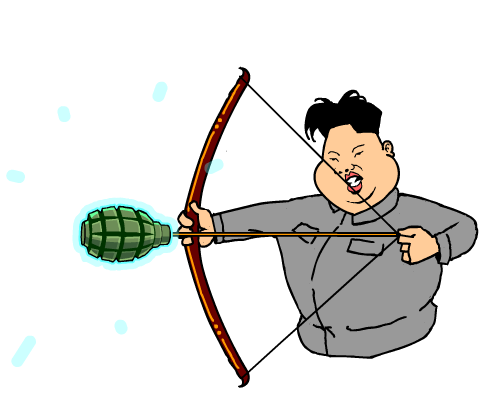
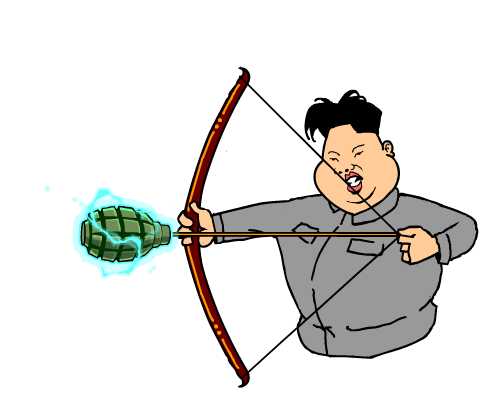
электро свечение гранаты

diff --git a/front/src/Field.jsx b/front/src/Field.jsx
@@ -61,6 +61,21 @@ import grenade_glow2 from "./images/grenade_glow/grenade_glow0002.png"
 import grenade_glow3 from "./images/grenade_glow/grenade_glow0003.png"
 import grenade_glow4 from "./images/grenade_glow/grenade_glow0004.png"
 import grenade_glow5 from "./images/grenade_glow/grenade_glow0005.png"
+import grenade_glow6 from "./images/grenade_glow/grenade_glow0006.png"
+import grenade_glow7 from "./images/grenade_glow/grenade_glow0007.png"
+import grenade_glow8 from "./images/grenade_glow/grenade_glow0008.png"
+import grenade_glow9 from "./images/grenade_glow/grenade_glow0009.png"
+import grenade_glow10 from "./images/grenade_glow/grenade_glow0010.png"
+import grenade_glow11 from "./images/grenade_glow/grenade_glow0011.png"
+import grenade_glow12 from "./images/grenade_glow/grenade_glow0012.png"
+import grenade_glow13 from "./images/grenade_glow/grenade_glow0013.png"
+import grenade_glow14 from "./images/grenade_glow/grenade_glow0014.png"
+import grenade_glow15 from "./images/grenade_glow/grenade_glow0015.png"
+import grenade_glow16 from "./images/grenade_glow/grenade_glow0016.png"
+import grenade_glow17 from "./images/grenade_glow/grenade_glow0017.png"
+import grenade_glow18 from "./images/grenade_glow/grenade_glow0018.png"
+import grenade_glow19 from "./images/grenade_glow/grenade_glow0019.png"
+import grenade_glow20 from "./images/grenade_glow/grenade_glow0020.png"
 import arrow_red from "./images/arrows/arrows0001.png";
 import arrow_green from "./images/arrows/arrows0002.png";
 import arrow_white from "./images/arrows/arrows0003.png";
@@ -177,6 +192,7 @@ function Field() {
                         });
                         item_in_the_hands_ref.current = something_in_the_hands;
                         electricity_stopped_ref.current = true;
+                        grenade_glowing_stopped_ref.current = true;
                         setKim_control(6);
                     }
                 } else {
@@ -189,12 +205,12 @@ function Field() {
                             });
                             item_in_the_hands_ref.current = something_in_the_hands;
                             electricity_stopped_ref.current = true;
+                            grenade_glowing_stopped_ref.current = false;
                             runGrenadeGlow().then(r => {
                                 /**
                                  * По завершению работы функции снимаем блокировку поворота головы
                                  * */
                                 kim_turns_blocked_ref.current = false;
-                                setKim_control(11);
                             });
                         }
                     } else {
@@ -207,6 +223,7 @@ function Field() {
                                 });
                                 item_in_the_hands_ref.current = something_in_the_hands;
                                 electricity_stopped_ref.current = false;
+                                grenade_glowing_stopped_ref.current = true;
                                 runElectricity().then(r => {
                                     /**
                                      * По завершению работы функции снимаем блокировку поворота головы
@@ -324,6 +341,10 @@ function Field() {
      * Прямоугольник, очерчивающий яблоко на голове Байдена для collision detect
      * */
     const joe_box_3_ref = useRef();
+    /**
+     * Для досрочной остановки свечения гранаты
+     * */
+    const grenade_glowing_stopped_ref = useRef(false);
 
     const getPosition = () => {
         const forest_x = forest_ref.current.offsetLeft;
@@ -449,28 +470,13 @@ function Field() {
          * */
         kim_turns_blocked_ref.current = true;
         let i_kim = 56;
-        let time;
-        while (i_kim <= 60) {
-            /**
-             * Рисуем свечение
-             * */
-            setKim_control(i_kim);
-            switch (i_kim) {
-                case 56:
-                    time = 10;
-                    break;
-                case 57:
-                    time = 10;
-                    break;
-                case 58:
-                    time = 20;
-                    break;
-                case 59:
-                    time = 10;
-                    break;
-                case 60:
-                    time = 5;
-                    break;
+        let time = 30;
+        while (i_kim <= 75) {
+            if (!grenade_glowing_stopped_ref.current) {
+                /**
+                 * Рисуем свечение
+                 * */
+                setKim_control(i_kim);
             }
             /**
              * Притормаживаем
@@ -1002,6 +1008,21 @@ function Field() {
                     <img src={grenade_glow3} hidden={kim_control !== 58} alt={""}/>
                     <img src={grenade_glow4} hidden={kim_control !== 59} alt={""}/>
                     <img src={grenade_glow5} hidden={kim_control !== 60} alt={""}/>
+                    <img src={grenade_glow6} hidden={kim_control !== 61} alt={""}/>
+                    <img src={grenade_glow7} hidden={kim_control !== 62} alt={""}/>
+                    <img src={grenade_glow8} hidden={kim_control !== 63} alt={""}/>
+                    <img src={grenade_glow9} hidden={kim_control !== 64} alt={""}/>
+                    <img src={grenade_glow10} hidden={kim_control !== 65} alt={""}/>
+                    <img src={grenade_glow11} hidden={kim_control !== 66} alt={""}/>
+                    <img src={grenade_glow12} hidden={kim_control !== 67} alt={""}/>
+                    <img src={grenade_glow13} hidden={kim_control !== 68} alt={""}/>
+                    <img src={grenade_glow14} hidden={kim_control !== 69} alt={""}/>
+                    <img src={grenade_glow15} hidden={kim_control !== 70} alt={""}/>
+                    <img src={grenade_glow16} hidden={kim_control !== 71} alt={""}/>
+                    <img src={grenade_glow17} hidden={kim_control !== 72} alt={""}/>
+                    <img src={grenade_glow18} hidden={kim_control !== 73} alt={""}/>
+                    <img src={grenade_glow19} hidden={kim_control !== 74} alt={""}/>
+                    <img src={grenade_glow20} hidden={kim_control !== 75} alt={""}/>
                 </div>
                 <div className="joe" ref={joe_ref}>
                     <img src={joe_1} alt={""}/>
